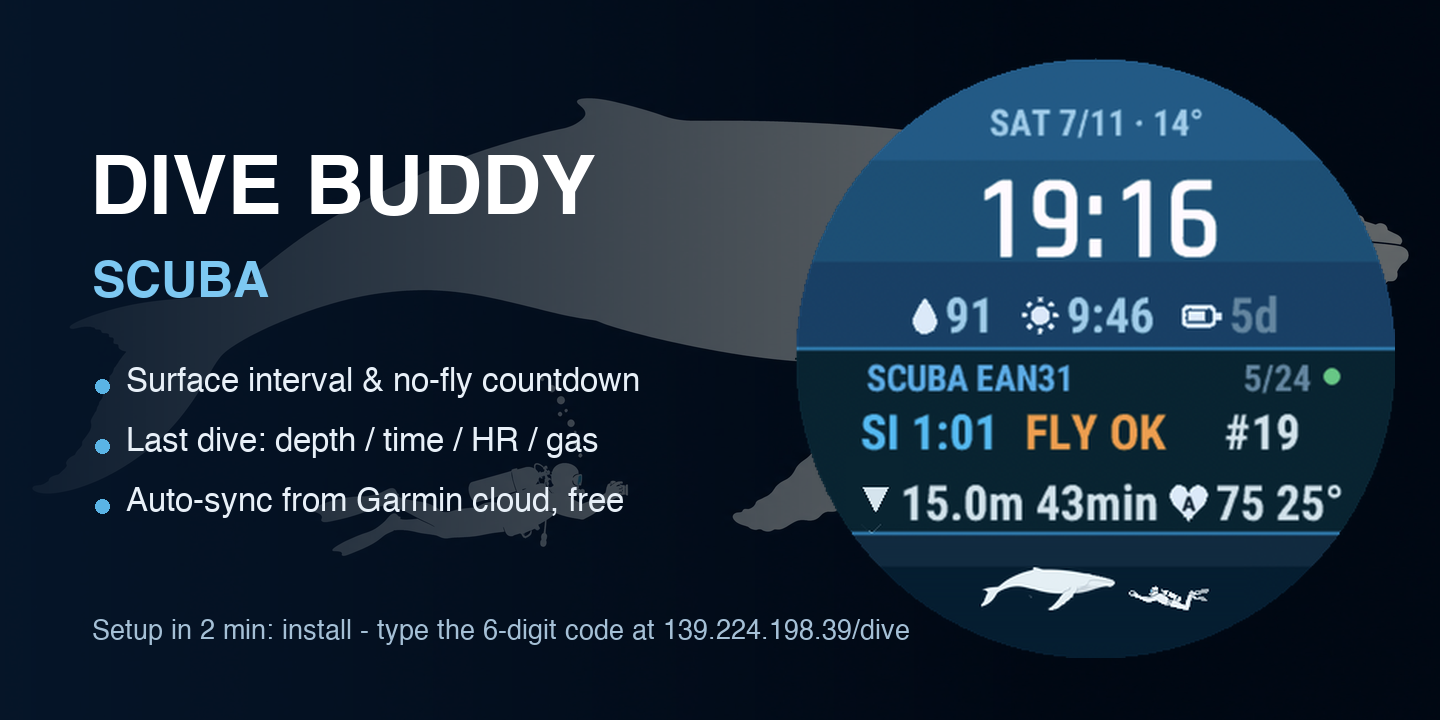
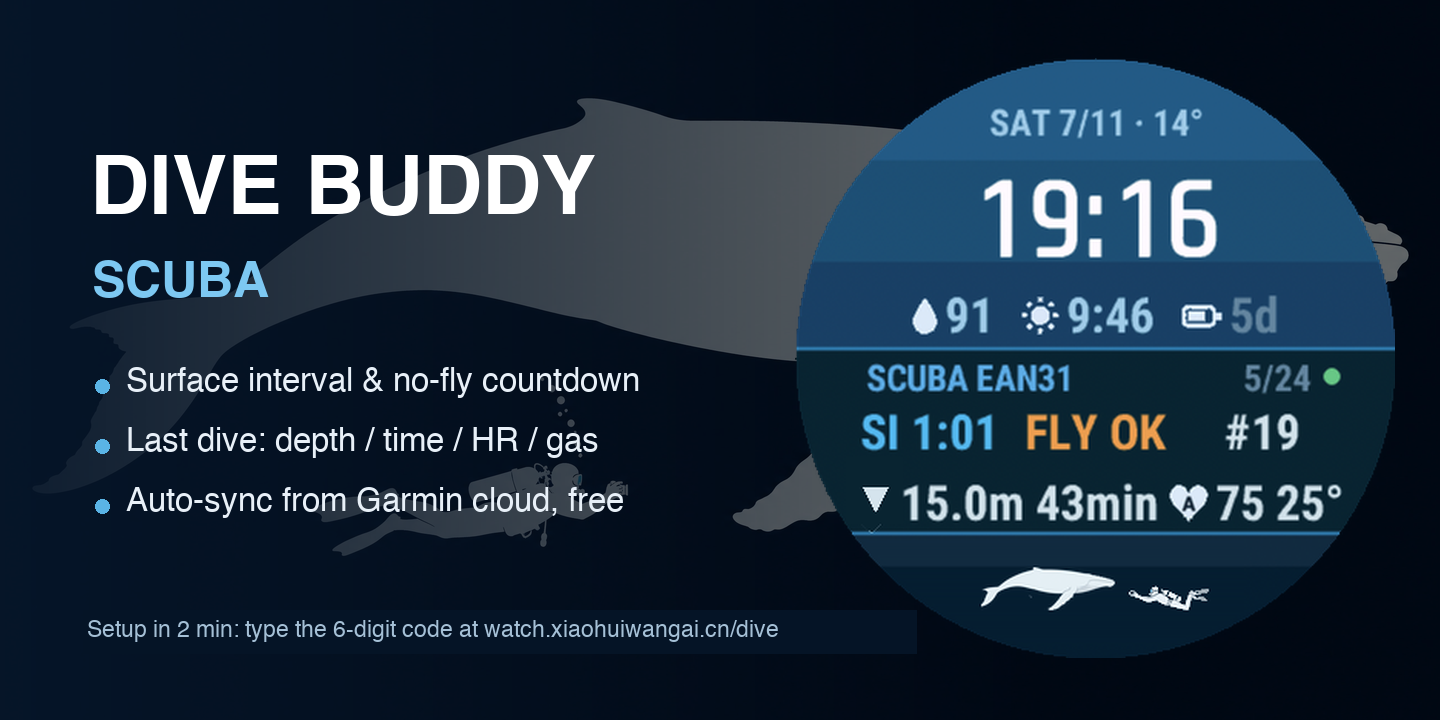
docs: 中文 README 默认 + 数据刷新频率说明 + hero 图域名版 + 修正商店安装误述

Changed region(s): [[0.0625, 0.8556, 0.625, 0.8861]]

diff --git a/README.md b/README.md
@@ -1,46 +1,56 @@
-# Dive Buddy — Garmin watch faces for divers
+# Dive Buddy — 潜水员的佳明表盘
+
+**中文** · [English](README.en.md)
 
 ![Dive Buddy Scuba](docs/hero_scuba.png)
 ![Dive Buddy Free](docs/hero_free.png)
 
-Two watch faces for **Garmin Descent G2**:
+两款 **Garmin Descent G2** 表盘:
 
-- 🤿 **Dive Buddy — Scuba**: surface interval, conservative no-fly countdown, last-dive stats (depth · bottom time · HR · gas), total dives.
-- 🌊 **Dive Buddy — Free**: surface interval, session min-HR (your dive reflex), best single dive, session/total counts.
+- 🤿 **Dive Buddy — 水肺版(Scuba)**:水面间隔 · 保守禁飞倒计时 · 上一潜数据(深度 · 底时 · 心率 · 气体)· 累计潜数
+- 🌊 **Dive Buddy — 自由潜版(Free)**:水面间隔 · 当次最低心率(你的潜水反射)· 最佳单潜 · 当次/累计潜次
 
-Data auto-syncs from your Garmin Connect account through a free hosted cloud — no server of your own, no manual URL/token.
+数据从你自己的佳明账号经免费云端自动同步——不用自己搭服务器,不用手填 URL/token。
 
-## 📖 安装指导 / Install guide
+## 📖 安装指导
 
-- 水肺版 Scuba: [中文](INSTALL-DiveScuba.md) · [English](INSTALL-DiveScuba.en.md)
-- 自由潜版 Free: [中文](INSTALL-DiveFree.md) · [English](INSTALL-DiveFree.en.md)
+- 水肺版:[中文](INSTALL-DiveScuba.md) · [English](INSTALL-DiveScuba.en.md)
+- 自由潜版:[中文](INSTALL-DiveFree.md) · [English](INSTALL-DiveFree.en.md)
 
-5 分钟侧载安装 + 30 秒配对码激活(含 Mac OpenMTP 步骤)。 Sideload in 5 minutes, activate with a 6-digit pair code.
+5 分钟侧载安装 + 30 秒配对码激活(含 Mac OpenMTP 步骤)。
 
+## 上手(2 分钟)
 
-## Setup (2 minutes)
+1. 拿到表盘文件后按安装指导侧载到手表——表盘会显示 **6 位配对码**
+2. 手机打开 **https://watch.xiaohuiwangai.cn/dive**,按页面 1-2-3 步进指引输码
+3. 同页绑定佳明账号(密码只用于一次佳明登录,不会被保存)
 
-1. Install the face from the Connect IQ store — it shows a **6-digit pairing code**.
-2. Open **https://watch.xiaohuiwangai.cn/dive** on your phone and type the code.
-3. Bind your Garmin account there (password is used once for Garmin SSO and never stored).
+完成——表盘约 10 分钟内自动激活。
 
-Done — the face activates itself within ~10 minutes. On dive days it refreshes every 10 minutes; a **Sync now** button is on your dashboard for when you're back on the boat.
+## 🔄 数据多久更新一次
 
-## Privacy
+| 环节 | 频率 |
+|---|---|
+| 云端从佳明拉取 | 刚潜完(6 小时内)**每 10 分钟**;48 小时内每 30 分钟;更久每 2 小时;近期无潜水每小时 |
+| 表盘从云端刷新 | 约每 10 分钟(佳明后台周期) |
+| 手动 | 仪表盘「🔄 立即同步」按钮,秒级拉完(5 分钟冷却) |
 
-- Your Garmin password is never stored; only a revocable session token is kept.
-- Unbind any time on your dashboard — that wipes the tokens.
-- Your data is served only to your own watch (personal token).
+刚上船想马上看数据:开仪表盘点一下立即同步即可。
 
-## Disclaimer
+## 隐私
 
-Dive Buddy is a watch face, **not a dive computer**. The no-fly figure is a conservative estimate (18 h after the last dive). Always follow your dive computer and your training.
+- 佳明密码不落盘,只保留可随时吊销的会话 token
+- 仪表盘随时可解绑,解绑即抹掉 token
+- 你的数据只发给你自己的手表(个人 token)
 
-## Feedback
+## 免责声明
 
-Found a bug or want a feature? [Open an issue](../../issues/new/choose).
+Dive Buddy 是表盘,**不是潜水电脑**。禁飞数字是保守估算(末潜后 18 小时)。一切以你的潜水电脑和训练为准。
 
-## Support
+## 反馈
 
-Dive Buddy is free. If it makes your surface intervals better, you can
-[buy me a coffee ☕](https://ko-fi.com/xiaohuiwang) — it keeps the cloud running.
+发现 bug 或想要新功能?[提 issue](../../issues/new/choose)。
+
+## 支持
+
+Dive Buddy 免费。如果它让你的水面间隔更舒服,可以[请我喝杯咖啡 ☕](https://ko-fi.com/xiaohuiwang)——云端就是这么维持的。

diff --git a/README.en.md b/README.en.md
@@ -1,0 +1,56 @@
+# Dive Buddy — Garmin watch faces for divers
+
+[中文](README.md) · **English**
+
+![Dive Buddy Scuba](docs/hero_scuba.png)
+![Dive Buddy Free](docs/hero_free.png)
+
+Two watch faces for **Garmin Descent G2**:
+
+- 🤿 **Dive Buddy — Scuba**: surface interval, conservative no-fly countdown, last-dive stats (depth · bottom time · HR · gas), total dives.
+- 🌊 **Dive Buddy — Free**: surface interval, session min-HR (your dive reflex), best single dive, session/total counts.
+
+Data auto-syncs from your Garmin Connect account through a free hosted cloud — no server of your own, no manual URL/token.
+
+## 📖 安装指导 / Install guide
+
+- 水肺版 Scuba: [中文](INSTALL-DiveScuba.md) · [English](INSTALL-DiveScuba.en.md)
+- 自由潜版 Free: [中文](INSTALL-DiveFree.md) · [English](INSTALL-DiveFree.en.md)
+
+5 分钟侧载安装 + 30 秒配对码激活(含 Mac OpenMTP 步骤)。 Sideload in 5 minutes, activate with a 6-digit pair code.
+
+
+## Setup (2 minutes)
+
+1. Get the face file and sideload it (see the install guide) — the face shows a **6-digit pairing code**.
+2. Open **https://watch.xiaohuiwangai.cn/dive** on your phone and type the code.
+3. Bind your Garmin account there (password is used once for Garmin SSO and never stored).
+
+Done — the face activates itself within ~10 minutes. On dive days it refreshes every 10 minutes; a **Sync now** button is on your dashboard for when you're back on the boat.
+
+## 🔄 How often does data refresh
+
+| Stage | Cadence |
+|---|---|
+| Cloud pulls from Garmin | **every 10 min** within 6 h of a dive; every 30 min within 48 h; every 2 h beyond; hourly with no recent dives |
+| Watch face refresh | ~every 10 min (Garmin background cycle) |
+| Manual | "Sync now" on your dashboard (5-min cooldown) |
+
+## Privacy
+
+- Your Garmin password is never stored; only a revocable session token is kept.
+- Unbind any time on your dashboard — that wipes the tokens.
+- Your data is served only to your own watch (personal token).
+
+## Disclaimer
+
+Dive Buddy is a watch face, **not a dive computer**. The no-fly figure is a conservative estimate (18 h after the last dive). Always follow your dive computer and your training.
+
+## Feedback
+
+Found a bug or want a feature? [Open an issue](../../issues/new/choose).
+
+## Support
+
+Dive Buddy is free. If it makes your surface intervals better, you can
+[buy me a coffee ☕](https://ko-fi.com/xiaohuiwang) — it keeps the cloud running.